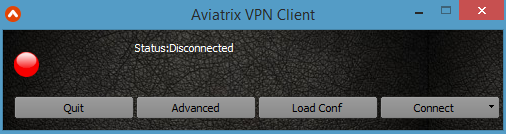
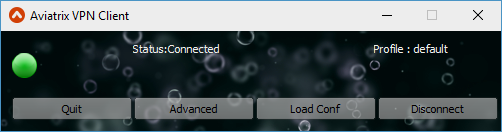
Aviatrix VPN Client - 1.8 release

diff --git a/Downloads/samlclient.rst b/Downloads/samlclient.rst
@@ -25,7 +25,7 @@ The VPN Client can be installed on desktop platforms and is supported on various
 
 Consult the VPN client `user guide <https://s3-us-west-2.amazonaws.com/aviatrix-download/AviatrixVPNClient/Aviatrix+VPN+Client+User+Guide.pdf>`__ for how to use it. 
 
-Latest version: 1.7.2 - (Mar 7 2018) `Changelog. <http://docs.aviatrix.com/HowTos/changelog.html>`_
+Latest version: 1.8.7 - (Jun 22 2018) `Changelog. <http://docs.aviatrix.com/HowTos/changelog.html>`_
 
 *************
 Windows |win|
@@ -59,10 +59,6 @@ Ubuntu 16/Generic - `Debian file <https://s3-us-west-2.amazonaws.com/aviatrix-do
 Trusty/Ubuntu14  - `Debian file <https://s3-us-west-2.amazonaws.com/aviatrix-download/AviatrixVPNClient/AVPNC_debian_Q4.deb>`__, `Tar file <https://s3-us-west-2.amazonaws.com/avi atrix-download/AviatrixVPNClient/AVPNC_linux_Q4.tar.gz>`__, 
 
 Zesty/Ubuntu17 and Ubuntu18 - `Debian file <https://s3-us-west-2.amazonaws.com/aviatrix-download/AviatrixVPNClient/AVPNC_zesty.deb>`__, `Tar file <https://s3-us-west-2.amazonaws.com/aviatrix-download/AviatrixVPNClient/AVPNC_zesty.tar.gz>`__
-
-.. note::
-
-   To solve a DNS issue might happen on Ubuntu 17 or 18, please issue the below command before executing Aviatrx VPN client #sudo apt-get install resolvconf
 
 
 *************

diff --git a/HowTos/changelog.rst b/HowTos/changelog.rst
@@ -1,7 +1,17 @@
 Aviatrix VPN Client Changelog
 -----------------------------
+
+1.8 - Jun 22 2018
+ - Windows VPN Service to run the client without Admin access
+ - Graceful VPN exit on windows(8.0 and above) disconnect 
+ - Add platform, GUI version and peer info
+ - Add resolvconf dependency for Ubuntu18
+ - Fix some connection issues on Mac
+
+
 1.7 - Mar 7 2018
  - Support for Profile as an attribute feature
+
 
 1.6 - Dec 19 2017
  - FreeBSD support
